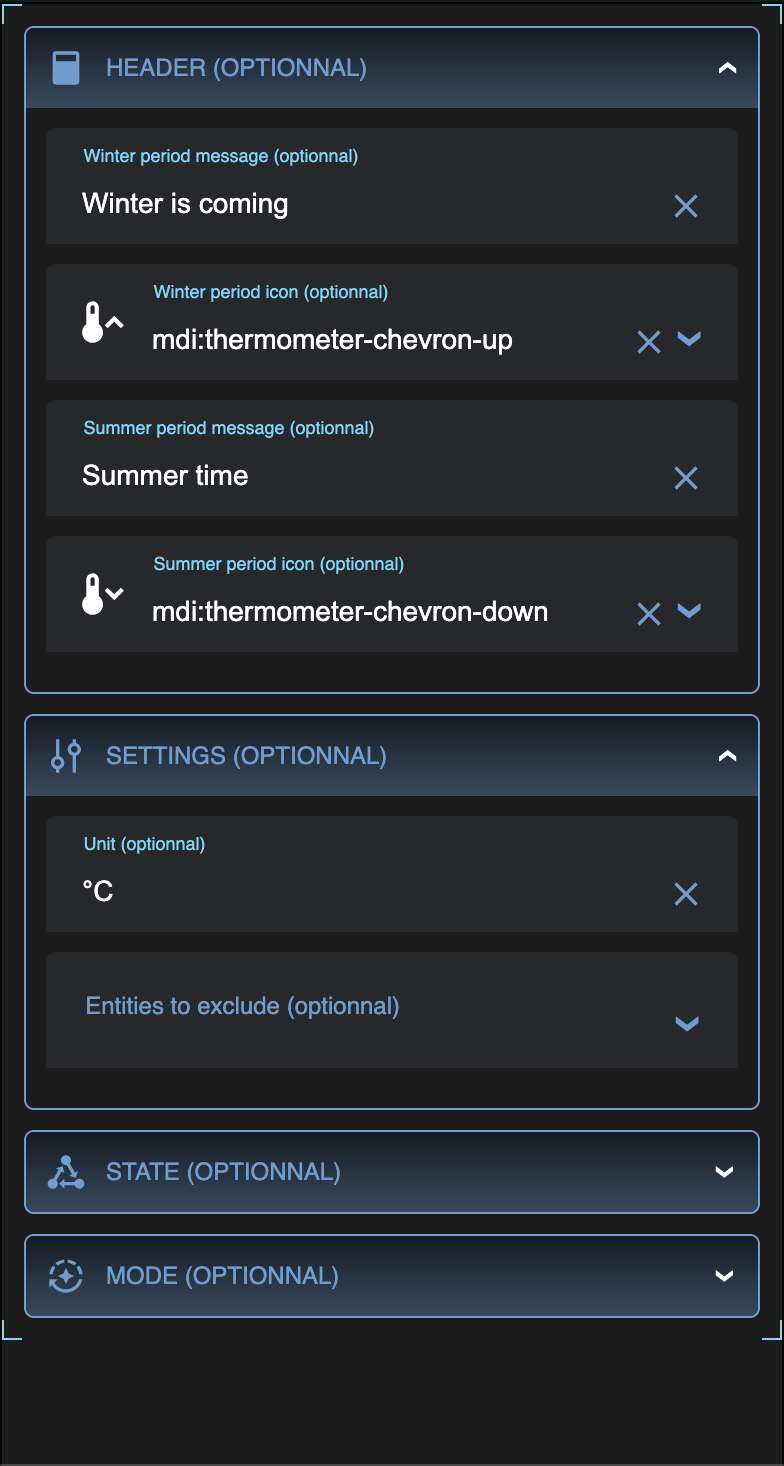
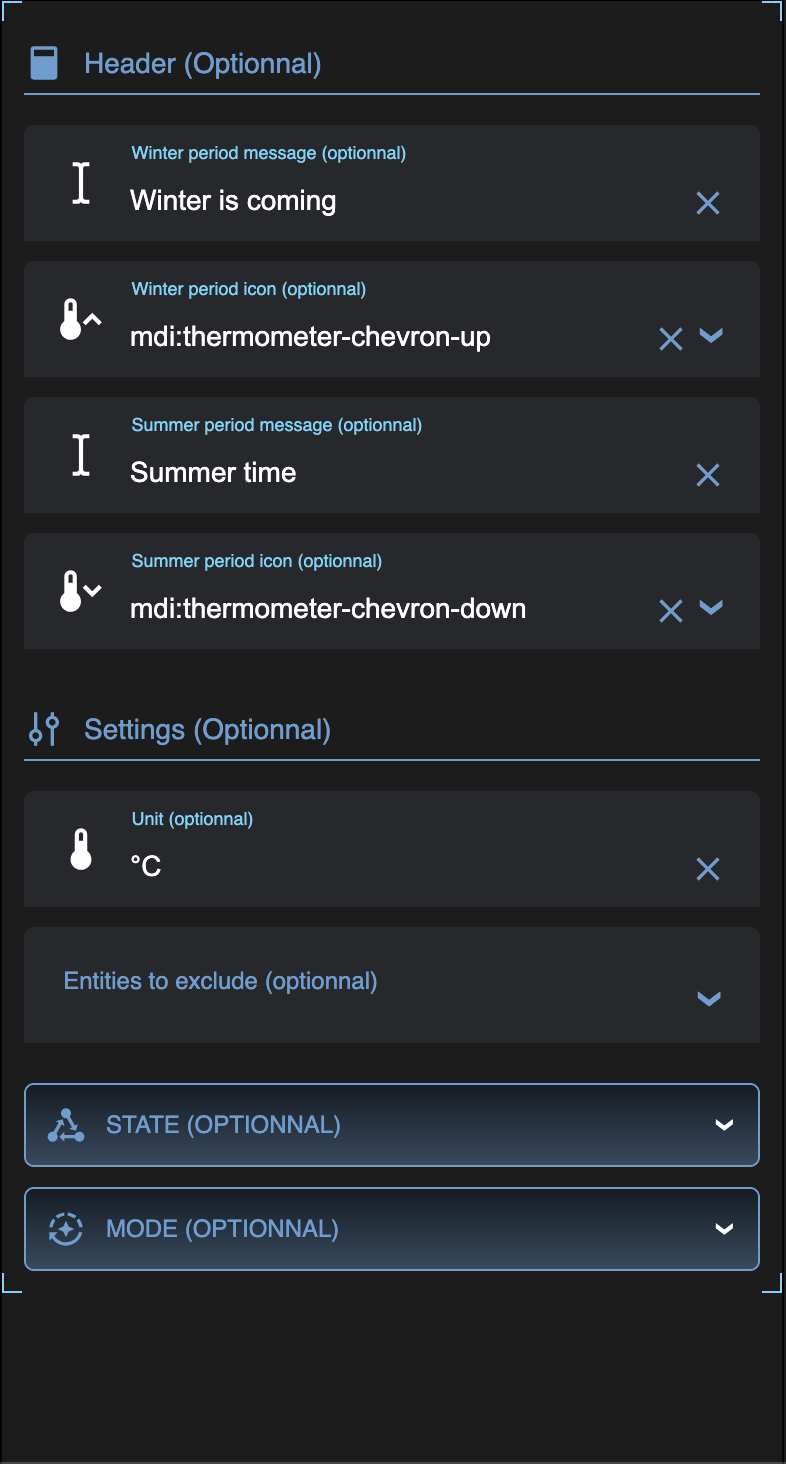
Fix climate editor dropdown list issue

diff --git a/src/cards/climates/editor.js b/src/cards/climates/editor.js
@@ -1,8 +1,6 @@
 import {html, nothing} from 'lit';
 
-import common_style from '../../helpers/common_style.js';
 import {SciFiBaseEditor} from '../../helpers/components/base_editor.js';
-import editor_common_style from '../../helpers/editor_common_style.js';
 import {
   HASS_CLIMATE_PRESET_MODE_BOOST,
   HASS_CLIMATE_PRESET_MODE_COMFORT,
@@ -15,11 +13,12 @@ import {
   STATE_CLIMATE_OFF,
 } from '../../helpers/entities/climate_const.js';
 import '../../helpers/form/form.js';
+import {getIcon} from '../../helpers/icons/icons.js';
 import editor_style from './style_editor.js';
 
 export class SciFiClimatesEditor extends SciFiBaseEditor {
   static get styles() {
-    return [common_style, editor_common_style, editor_style];
+    return super.styles.concat([editor_style]);
   }
 
   _climates; // Privates
@@ -60,13 +59,12 @@ export class SciFiClimatesEditor extends SciFiBaseEditor {
   }
 
   __renderAppearance() {
-    return html` <sci-fi-accordion-card
-      title="Header (optionnal)"
-      icon="mdi:page-layout-header"
-      open
-      class="header"
-    >
+    return html` <section>
+      <h1>
+        <span>${getIcon('mdi:page-layout-header')}</span>Header (optionnal)
+      </h1>
       <sci-fi-input
+        icon="mdi:cursor-text"
         label="Winter period message (optionnal)"
         value=${this._config.header.message_winter_state}
         element-id="header"
@@ -83,6 +81,7 @@ export class SciFiClimatesEditor extends SciFiBaseEditor {
       ></sci-fi-dropdown-icon-input>
 
       <sci-fi-input
+        icon="mdi:cursor-text"
         label="Summer period message (optionnal)"
         value=${this._config.header.message_summer_state}
         element-id="header"
@@ -97,17 +96,16 @@ export class SciFiClimatesEditor extends SciFiBaseEditor {
         value=${this._config.header.icon_summer_state}
         @input-update=${this.__update}
       ></sci-fi-dropdown-icon-input>
-    </sci-fi-accordion-card>`;
+    </section>`;
   }
 
   __renderConfig() {
-    return html` <sci-fi-accordion-card
-      title="Settings (optionnal)"
-      icon="mdi:tune-vertical-variant"
-      open
-      class="settings"
-    >
+    return html` <section>
+      <h1>
+        <span>${getIcon('mdi:tune-vertical-variant')}</span>Settings (optionnal)
+      </h1>
       <sci-fi-input
+        icon="mdi:thermometer"
         label="Unit (optionnal)"
         value=${this._config.unit}
         element-id="unit"
@@ -122,7 +120,7 @@ export class SciFiClimatesEditor extends SciFiBaseEditor {
         items="${JSON.stringify(this._climates)}"
         @input-update=${this.__update}
       ></sci-fi-dropdown-multi-entities-input>
-    </sci-fi-accordion-card>`;
+    </section>`;
   }
 
   __capitalizeFirstLetter(val) {

diff --git a/src/cards/climates/style_editor.js b/src/cards/climates/style_editor.js
@@ -1,10 +1,6 @@
 import {css} from 'lit';
 
 export default css`
-  .header > *,
-  .settings > * {
-    margin-bottom: 10px;
-  }
   .container.false {
     display: none;
   }
@@ -15,7 +11,6 @@ export default css`
     display: flex;
     flex-direction: row;
     column-gap: 5px;
-    margin-bottom: 10px;
   }
   .state-mode-row sci-fi-input {
     flex: 1;
